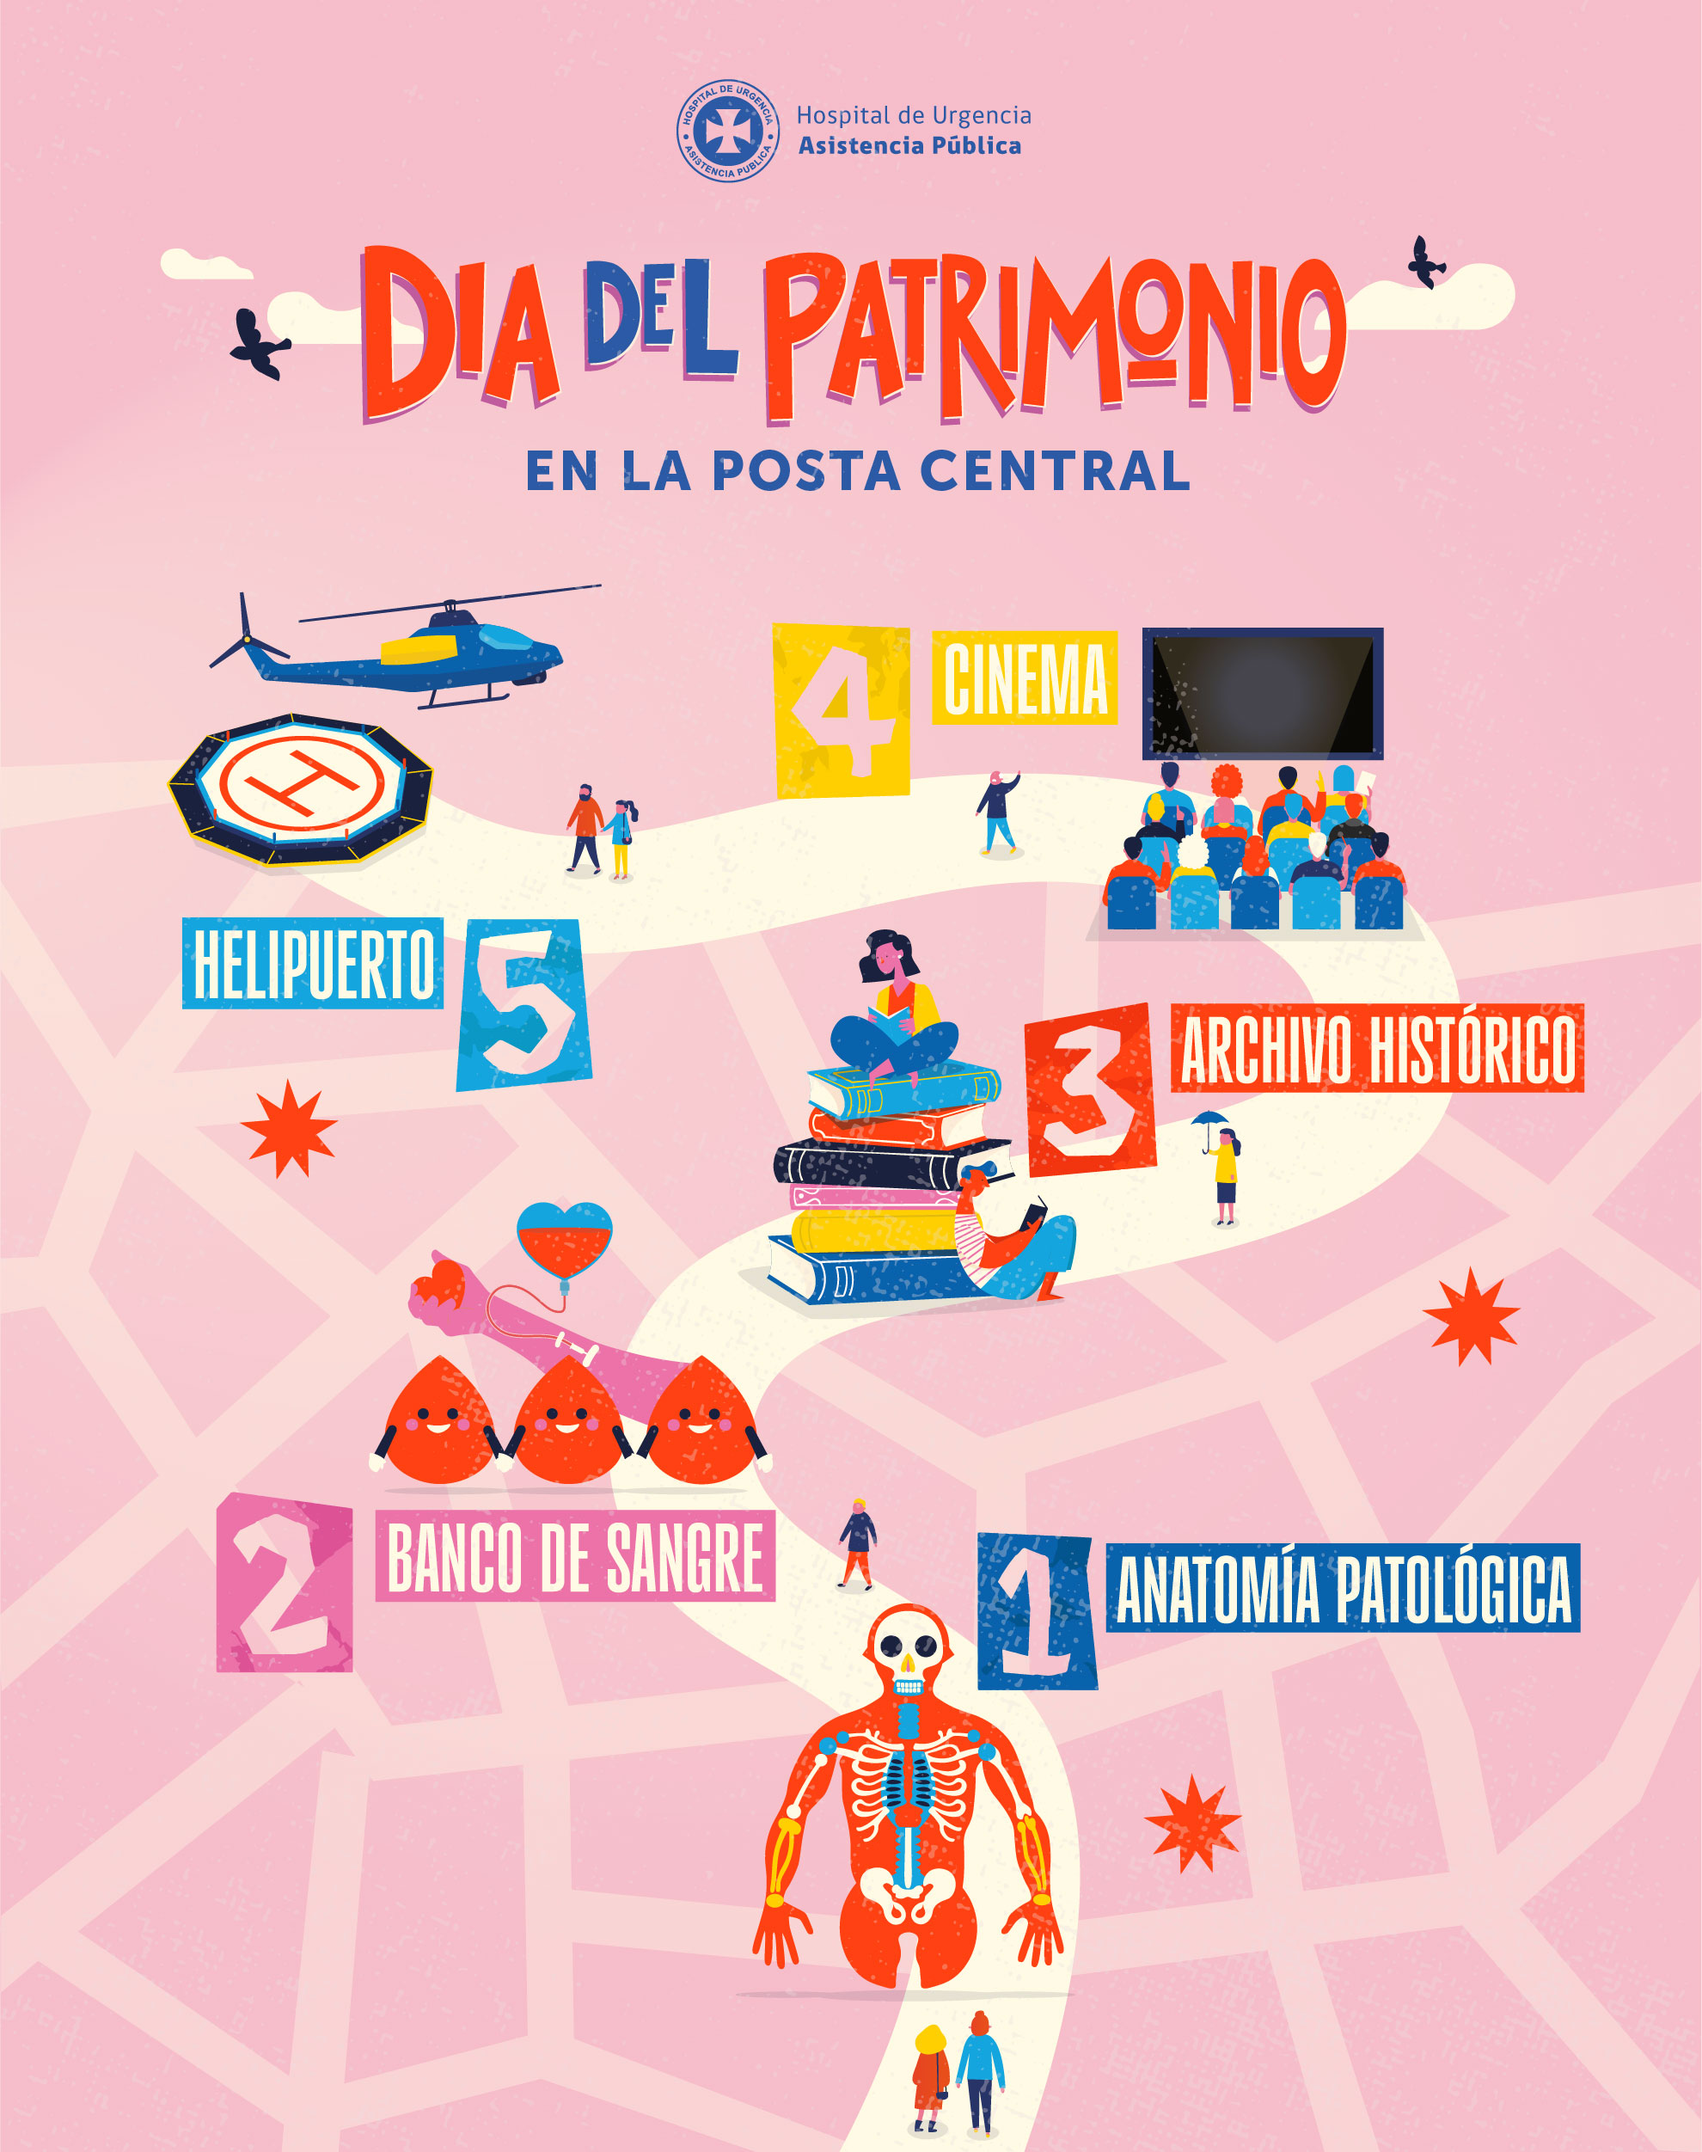
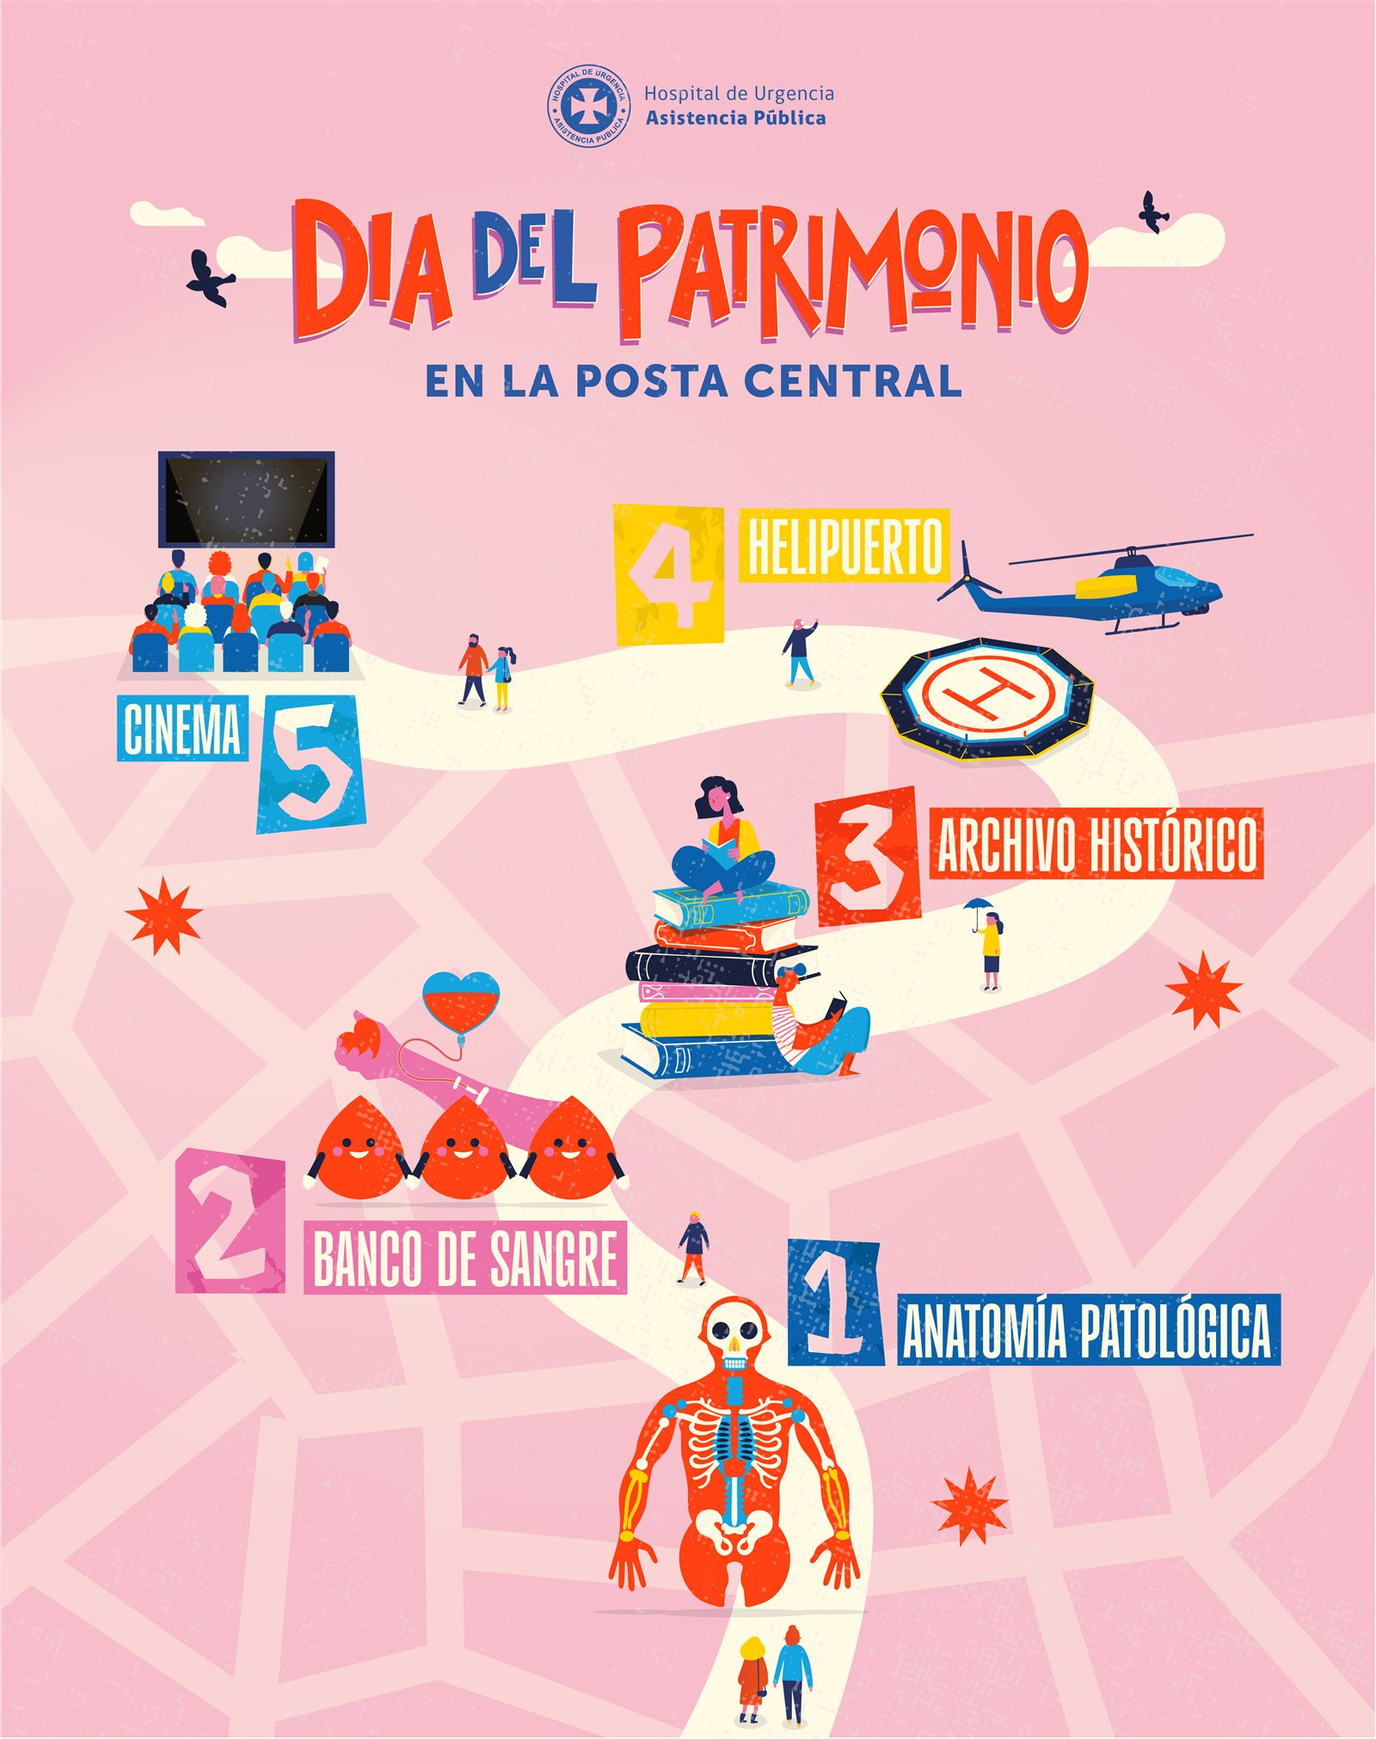
feat(recorrido): nuevo mapa con Cine como estación 5 (cierre) y Helipuerto como 4

diff --git a/public/index.html b/public/index.html
@@ -583,7 +583,7 @@ button, a.btn, [role="button"] {
          class="block mx-auto rounded-2xl overflow-hidden shadow-lg hover:shadow-2xl transition-shadow border-4 w-full sm:max-w-md md:max-w-lg lg:max-w-xl"
          style="border-color: #1F59FF; background: #FFA8E8;">
         <img src="uploads/mapa-recorrido.jpg"
-             alt="Plano del recorrido patrimonial Día del Patrimonio Posta Central — 5 estaciones: Anatomía Patológica, Banco de Sangre, Archivo Histórico, Cinema y Helipuerto"
+             alt="Plano del recorrido patrimonial Día del Patrimonio Posta Central — 5 estaciones: 1. Anatomía Patológica, 2. Banco de Sangre, 3. Archivo Histórico, 4. Helipuerto y 5. Cinema"
              class="block w-full h-auto"
              loading="lazy">
       </a>
@@ -639,23 +639,9 @@ button, a.btn, [role="button"] {
         </div>
       </div>
 
-      <!-- Estación 4: Cinema (Cine-Auditorio) -->
+      <!-- Estación 4: Helipuerto (RCP) -->
       <div class="flex gap-4 sm:gap-5 items-start bg-white dark:bg-neutral-900 border border-neutral-200 dark:border-neutral-800 rounded-xl p-5 shadow-sm">
         <div class="w-9 h-9 rounded-lg flex items-center justify-center font-bold text-base flex-shrink-0" style="background: #1F59FF; color: #ffffff;">4</div>
-        <div class="flex-1">
-          <h3 class="font-semibold text-base sm:text-lg mb-2">Cinema · Cine-Auditorio</h3>
-          <p class="text-sm text-neutral-600 dark:text-neutral-400 leading-relaxed">
-            Piso 2. Conversatorio patrimonial y exhibición audiovisual con testimonios de funcionarios, archivo fílmico y proyección sobre la historia social del hospital.
-          </p>
-          <span class="inline-flex items-center gap-1.5 px-3 py-1 rounded-full text-xs font-semibold mt-3" style="background: rgba(31,89,255,0.12); color: #1F59FF;">
-            <img src="uploads/iconos/icon-22.png" alt="" class="iko-sm"> Audiovisual patrimonial
-          </span>
-        </div>
-      </div>
-
-      <!-- Estación 5: Helipuerto (RCP) -->
-      <div class="flex gap-4 sm:gap-5 items-start bg-white dark:bg-neutral-900 border border-neutral-200 dark:border-neutral-800 rounded-xl p-5 shadow-sm">
-        <div class="w-9 h-9 rounded-lg flex items-center justify-center font-bold text-base flex-shrink-0" style="background: #1F59FF; color: #ffffff;">5</div>
         <div class="flex-1">
           <h3 class="font-semibold text-base sm:text-lg mb-2">Helipuerto · RCP</h3>
           <p class="text-sm text-neutral-600 dark:text-neutral-400 leading-relaxed">
@@ -663,6 +649,20 @@ button, a.btn, [role="button"] {
           </p>
           <span class="inline-flex items-center gap-1.5 px-3 py-1 rounded-full text-xs font-semibold mt-3" style="background: rgba(31,89,255,0.12); color: #1F59FF;">
             <img src="uploads/iconos/icon-11.png" alt="" class="iko-sm"> Atención de urgencia
+          </span>
+        </div>
+      </div>
+
+      <!-- Estación 5: Cinema (Cine-Auditorio) — cierre del recorrido -->
+      <div class="flex gap-4 sm:gap-5 items-start bg-white dark:bg-neutral-900 border border-neutral-200 dark:border-neutral-800 rounded-xl p-5 shadow-sm">
+        <div class="w-9 h-9 rounded-lg flex items-center justify-center font-bold text-base flex-shrink-0" style="background: #1F59FF; color: #ffffff;">5</div>
+        <div class="flex-1">
+          <h3 class="font-semibold text-base sm:text-lg mb-2">Cinema · Cine-Auditorio</h3>
+          <p class="text-sm text-neutral-600 dark:text-neutral-400 leading-relaxed">
+            Piso 2. Cierre del recorrido con conversatorio patrimonial y exhibición audiovisual: testimonios de funcionarios, archivo fílmico y proyección sobre la historia social del hospital.
+          </p>
+          <span class="inline-flex items-center gap-1.5 px-3 py-1 rounded-full text-xs font-semibold mt-3" style="background: rgba(31,89,255,0.12); color: #1F59FF;">
+            <img src="uploads/iconos/icon-22.png" alt="" class="iko-sm"> Audiovisual patrimonial
           </span>
         </div>
       </div>
